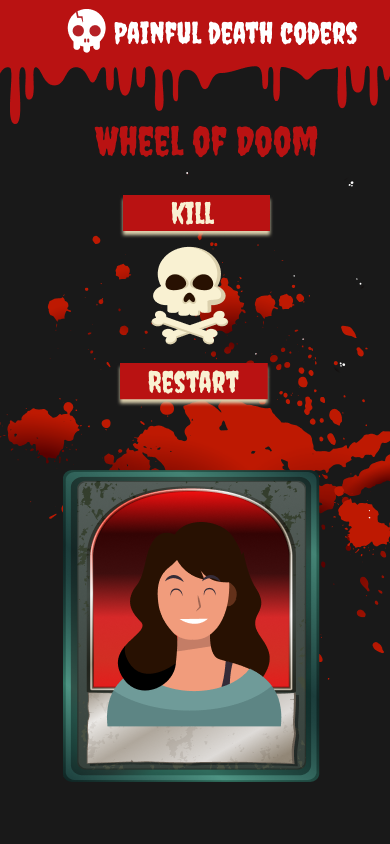
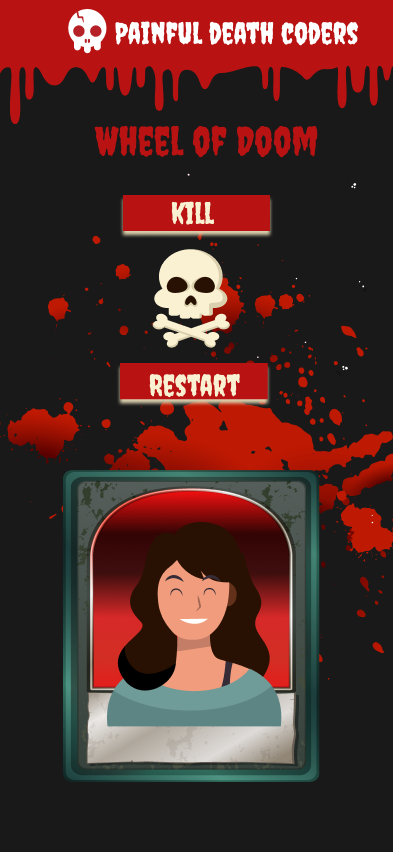
templates

diff --git a/JavaScript/index.js b/JavaScript/index.js
@@ -1,47 +1,56 @@
-let codersList = localStorage.getItem('names');
-codersList = codersList ? JSON.parse(names) : [];
+// Constantes para los nombres de los elementos del DOM
+const ELEMENTS = {
+	CODER_LIST: document.getElementById("coders-list"),
+	CODER_INPUT: document.getElementById("coder-name"),
+	ERROR_MESSAGE: document.getElementById("error-message"),
+	ERROR_TEXT: document.getElementById("error-text"),
+	ERROR_BUTTON: document.getElementById("error-button"),
+	ADD_BUTTON: document.getElementById("add-btn"),
+	DELETE_BUTTON: document.getElementById("delete-btn"),
+	START_BUTTON: document.getElementById("start-btn")
+};
+
+let codersList = localStorage.getItem('codersList');
+codersList = codersList ? JSON.parse(codersList) : [];
 
 function displayList() {
-	const coder_list = document.getElementById("coders-list");
-	coder_list.innerHTML = "";
+	ELEMENTS.CODER_LIST.innerHTML = "";
 
 	codersList.forEach(element => {
-		const li = document.createElement("li");
-		li.textContent = element;
-		coder_list.appendChild(li);
-	});
+	const li = document.createElement("li");
+	li.textContent = element;
+	ELEMENTS.CODER_LIST.appendChild(li);
+});
 }
 
 function addCoder() {
-	const coderInput = document.getElementById("coder-name");
-	const coderName = coderInput.value.trim().toLocaleLowerCase();
+	const coderName = ELEMENTS.CODER_INPUT.value.trim().toLocaleLowerCase();
 
 	if (coderName) {
-		codersList.unshift(coderName);
-		localStorage.setItem('codersList', JSON.stringify(codersList));
-		coderInput.value = "";
-	}
+	codersList.unshift(coderName);
+	localStorage.setItem('codersList', JSON.stringify(codersList));
+	ELEMENTS.CODER_INPUT.value = "";
 	displayList();
 	console.log(codersList);
+	}
 }
 
 function deleteCoder() {
-	const coderInput = document.getElementById("coder-name");
-	const coderName = coderInput.value.trim().toLocaleLowerCase();
+	const coderName = ELEMENTS.CODER_INPUT.value.trim().toLocaleLowerCase();
 
 	const index = codersList.indexOf(coderName);
 	if (index !== -1) {
-		codersList.splice(index, 1);
-		localStorage.removeItem('coderName', JSON.stringify(codersList));
-		coderInput.value = "";
-	}
+	codersList.splice(index, 1);
+	localStorage.setItem('codersList', JSON.stringify(codersList));
+	ELEMENTS.CODER_INPUT.value = "";
 	displayList();
 	console.log(codersList);
+	}
 }
 
 function start() {
 	try {
-		if (codersList && codersList.length > 0) {
+		if (codersList.length > 0) {
 			window.location.href = "../HTML/wheel_of_doom.html";
 		} else {
 			throw new Error("The coders list is empty.");
@@ -52,23 +61,22 @@ function start() {
 }
 
 function displayErrorMessage(message) {
-	const errorMessageElement = document.getElementById("error-message");
-	const errorTextElement = document.getElementById("error-text");
+	ELEMENTS.ERROR_TEXT.textContent = message;
+	ELEMENTS.ERROR_MESSAGE.classList.add("active");
 
-	errorTextElement.textContent = message;
-	errorMessageElement.classList.add("active");
-
-	const errorButton = document.getElementById("error-button");
-	errorButton.addEventListener("click", hideErrorMessage);
+	ELEMENTS.ERROR_BUTTON.addEventListener("click", hideErrorMessage);
 }
 
 function hideErrorMessage() {
-	const errorMessageElement = document.getElementById("error-message");
-	errorMessageElement.style.display = "none";
+	ELEMENTS.ERROR_MESSAGE.style.display = "none";
 }
 
-document.getElementById("add-btn").addEventListener("click", addCoder);
-document.getElementById("delete-btn").addEventListener("click", deleteCoder);
-document.getElementById("start-btn").addEventListener("click", start);
+ELEMENTS.ADD_BUTTON.addEventListener("click", addCoder);
+ELEMENTS.DELETE_BUTTON.addEventListener("click", deleteCoder);
+ELEMENTS.START_BUTTON.addEventListener("click", start);
+
+window.addEventListener("beforeunload", function() {
+	this.localStorage.removeItem("codersList");
+});
 
 displayList();

diff --git a/index.html b/index.html
@@ -12,15 +12,14 @@
 	<header>
 		<div class="header-container">
 			<img src="/img/skull-logo.png" alt="logo-skull" class="skull-logo">
-			<span class="logo">Painful dead coder</span>
+			<span class="logo">Painful death coders</span>
 		</div>
 	</header>
 	<main>
-		<!--<img src="/img/blood-main.png" alt="blood" class="blood">-->
 		<h1>Wheel of Doom</h1>
-		<button id="add-btn">Add coder</button>
+		<button id="add-btn">Add</button>
 		<input type="text" placeholder="write a name here" id="coder-name">
-		<button id="delete-btn">Delete coder</button>
+		<button id="delete-btn">Remove</button>
 		<button class="start" id="start-btn">Start</button>
 		<div id="error-message" class="error-message">
 			<span id="error-text"></span>

diff --git a/CSS/style.css b/CSS/style.css
@@ -38,9 +38,9 @@ body {
 }
 
 main {
-	/*width: 100vw;*/
 	background-image: url("/img/blood-main.png");
-	background-size: 100vw;
+	background-size: contain;
+	background-position: center top 100px;
 	color: var(--color-font-main);
 	display: flex;
 	justify-content: center;
